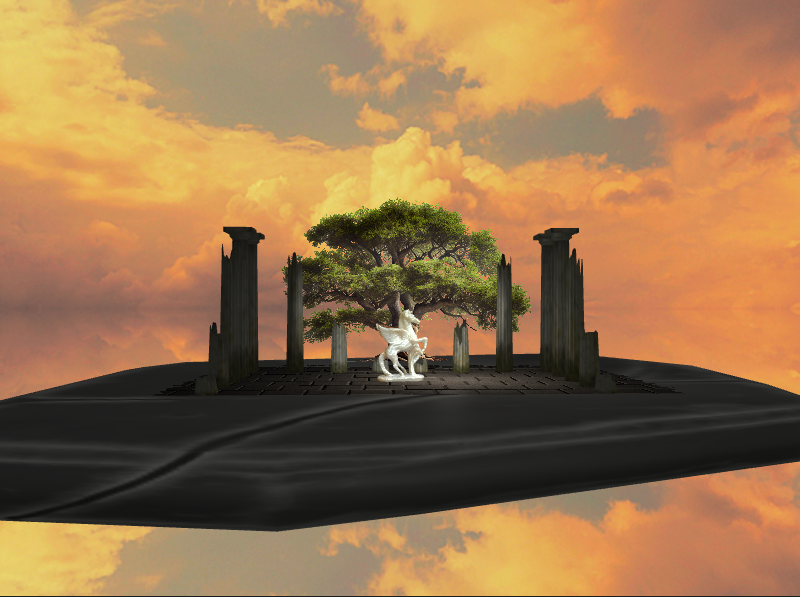
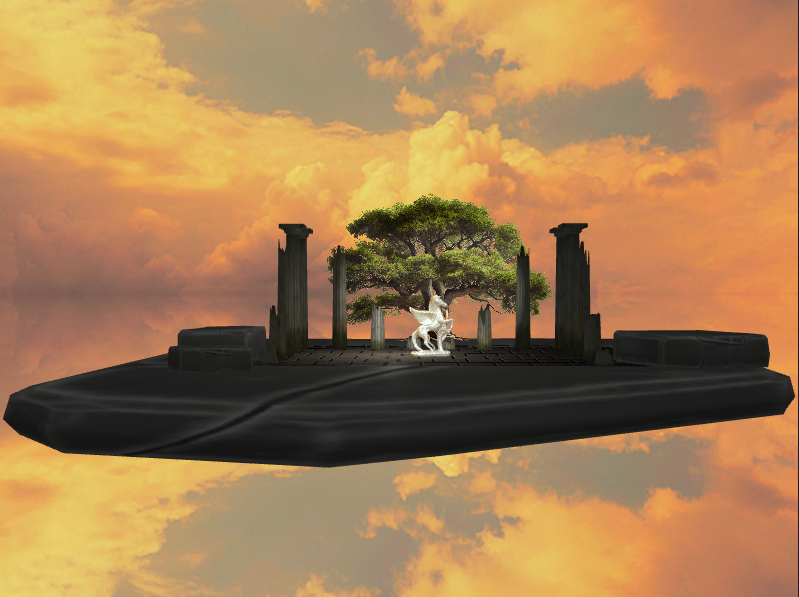
README file

diff --git a/src/main.cpp b/src/main.cpp
@@ -259,19 +259,6 @@ int main()
     };
 
 
-    //floor
-    float floorVertices[] = {
-            // positions                         //normals                           // texture coords
-            1.0f,  0.0f, 1.0f,    0.0f, 1.0f, 0.0f,    10.0f, 10.0f,
-            1.0f, 0.0f, -1.0f,    0.0f, 1.0f, 0.0f,    10.0f, 0.0f,
-            -1.0f, 0.0f, 1.0f,    0.0f, 1.0f, 0.0f,    0.0f, 10.0f,
-            -1.0f,  0.0f, -1.0f,  0.0f, 1.0f, 0.0f,    0.0f, 0.0f
-    };
-    unsigned int floorIndices[] = {
-            0, 1, 3, // first triangle
-            0, 3, 2  // second triangle
-    };
-
 
     float transparentVertices[] = {
             // positions         // texture Coords (swapped y coordinates because texture is flipped upside down)
@@ -353,6 +340,7 @@ int main()
     glBufferData(GL_ARRAY_BUFFER, sizeof (skyboxVertices), &skyboxVertices, GL_STATIC_DRAW);
     glEnableVertexAttribArray(0);
     glVertexAttribPointer(0, 3, GL_FLOAT, GL_FALSE, 3 * sizeof(float), (void*)0);
+    glBindVertexArray(0);
 
     vector<std::string> faces{
             "resources/textures/sky4/px.jpg",
@@ -374,8 +362,6 @@ int main()
     mappingShader.setInt("normalMap", 1);
     mappingShader.setInt("depthMap", 2);
 
-    //glBindBuffer(GL_ARRAY_BUFFER, 0);
-    //glBindVertexArray(0);
 
     //Light data
 
@@ -435,7 +421,6 @@ int main()
         //------------- Pegasus -----------------------
         ourShader.use();
         // Point light
-        //pointLight.position = glm::vec3(4.0f * cos(currentFrame), 1.0f, 4.0f * sin(currentFrame));
         pointLight.position = glm::vec3(4.0f * cos(currentFrame), -1.0f, 5.0f);
         //pointLight.position = glm::vec3(0.0f, 1.0f, 4.0f);
         ourShader.setVec3("pointLight.position", pointLight.position);
@@ -454,7 +439,6 @@ int main()
         ourShader.setVec3("dirLight.specular", dirLight.specular);
 
         //Spotlight
-        //spotLight.position = glm::vec3(4.0f * cos(currentFrame), -1.0f, 4.0f);
         ourShader.setVec3("spotLight.direction", spotLight.direction);
         ourShader.setVec3("spotLight.ambient", spotLight.ambient);
         ourShader.setVec3("spotLight.diffuse", spotLight.diffuse);
@@ -498,7 +482,7 @@ int main()
             rockModel.Draw(ourShader);
         }
 
-        // ---------- Column ------------------
+        // ---------- Column -----------------
         glDisable(GL_CULL_FACE);
         ourShader.use();
 
@@ -512,7 +496,7 @@ int main()
         }
         glEnable(GL_CULL_FACE);
 
-        // ----------- Floor 2 ----------------
+        // ----------- Floor  ----------------
 
         model = glm::mat4(1.0f);
         model = glm::translate(model, glm::vec3(2.0f, -6.0f, -10.0f));
@@ -534,40 +518,6 @@ int main()
         textureHeightMap.activeTexture(GL_TEXTURE2);
         textureHeightMap.bindTexture();
         renderQuad();
-
-
-
-        //------------- Floor -------------
-//        floorShader.use();
-//        glBindVertexArray(VAO);
-//
-//        texture0.activeTexture(GL_TEXTURE0);
-//        texture0.bindTexture();
-//        texture1.activeTexture(GL_TEXTURE1);
-//        texture1.bindTexture();
-//
-//        floorShader.setVec3("pointLight.position", pointLight.position);
-//        floorShader.setVec3("pointLight.ambient", pointLight.ambient);
-//        floorShader.setVec3("pointLight.diffuse", pointLight.diffuse);
-//        floorShader.setVec3("pointLight.specular", pointLight.specular);
-//        floorShader.setFloat("pointLight.c", pointLight.c);
-//        floorShader.setFloat("pointLight.l", pointLight.l);
-//        floorShader.setFloat("pointLight.q", pointLight.q);
-//        floorShader.setVec3("viewPosition", programState->camera.Position);
-//
-//        floorShader.setVec3("dirLight.direction", dirLight.direction);
-//        floorShader.setVec3("dirLight.ambient", dirLight.ambient);
-//        floorShader.setVec3("dirLight.diffuse", dirLight.diffuse);
-//        floorShader.setVec3("dirLight.specular", dirLight.specular);
-//
-//        model = glm::mat4(1.0f);
-//        model = glm::translate(model, glm::vec3(0.0f, -6.0f, 2.0f));
-//        model = glm::scale(model,glm::vec3(20.0f));
-//        floorShader.setMat4("model", model);
-//        floorShader.setMat4("view",view);
-//        floorShader.setMat4("projection", projection);
-
-        //glDrawElements(GL_TRIANGLES, 6, GL_UNSIGNED_INT, 0);
 
 
         // ------------- Transparent objects ------------------------
@@ -623,7 +573,6 @@ int main()
     // optional: de-allocate all resources once they've outlived their purpose:
     // ------------------------------------------------------------------------
 
-    //ourShader.deleteProgram();
     delete programState;
 
     // glfw: terminate, clearing all previously allocated GLFW resources.

diff --git a/README.md b/README.md
@@ -1,7 +1,13 @@
 
+
 | ![img](img/Pegaz.png) | ![img](img/Pegaz2.png) |
 | --- | --- |
 
+
+| ![img](img/Pegaz.gif) |
+| --- |
+
+Youtube video: [Pegaz](https://youtu.be/ry6YgLCURp0)<br>
 
 # project_base
 Prazan projekat sa pratećim bibliotekama koje koristimo na času `https://github.com/matf-racunarska-grafika/project_base.git`
